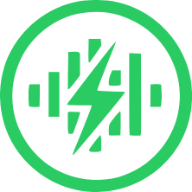
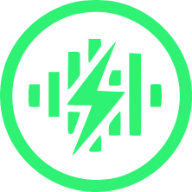
Made faveicon slightly brighter

diff --git a/spotify_project/spotify_auth/templates/spotify_auth/chat.html b/spotify_project/spotify_auth/templates/spotify_auth/chat.html
@@ -10,14 +10,12 @@
     <link rel="preload" href="{% static 'spotify_auth/fonts/Poppins-Medium-subset.ttf' %}" as="font" type="font/ttf" crossorigin>
     <link rel="preload" href="{% static 'spotify_auth/fonts/Poppins-SemiBold-subset.ttf' %}" as="font" type="font/ttf" crossorigin>
     <link rel="preload" href="{% static 'spotify_auth/fonts/Saira-Medium-subset.ttf' %}" as="font" type="font/ttf" crossorigin>
+    <link rel="icon" type="image/png" href="{% static 'spotify_auth/images/favicon-96x96.png' %}" sizes="96x96">
     <link rel="icon" type="image/svg+xml" href="{% static 'spotify_auth/images/favicon.svg' %}">
-    <link rel="icon" type="image/png" sizes="96x96" href="{% static 'spotify_auth/images/favicon-96x96.png' %}">
-    <link rel="icon" type="image/x-icon" href="{% static 'spotify_auth/images/favicon.ico' %}">
+    <link rel="shortcut icon" href="{% static 'spotify_auth/images/favicon.ico' %}">
     <link rel="apple-touch-icon" sizes="180x180" href="{% static 'spotify_auth/images/apple-touch-icon.png' %}">
+    <meta name="apple-mobile-web-app-title" content="Euphonic">
     <link rel="manifest" href="{% static 'spotify_auth/images/site.webmanifest' %}">
-    <meta name="theme-color" content="#101010">
-    <meta name="apple-mobile-web-app-title" content="Euphonic Intelligence">
-    <meta name="application-name" content="Euphonic Intelligence">
     <link rel="stylesheet" href="{% static 'spotify_auth/css/chat.css' %}">
     <link rel="stylesheet" href="{% static 'spotify_auth/css/fonts.css' %}">
     <meta name="csrf-token" content="{{ csrf_token }}">
